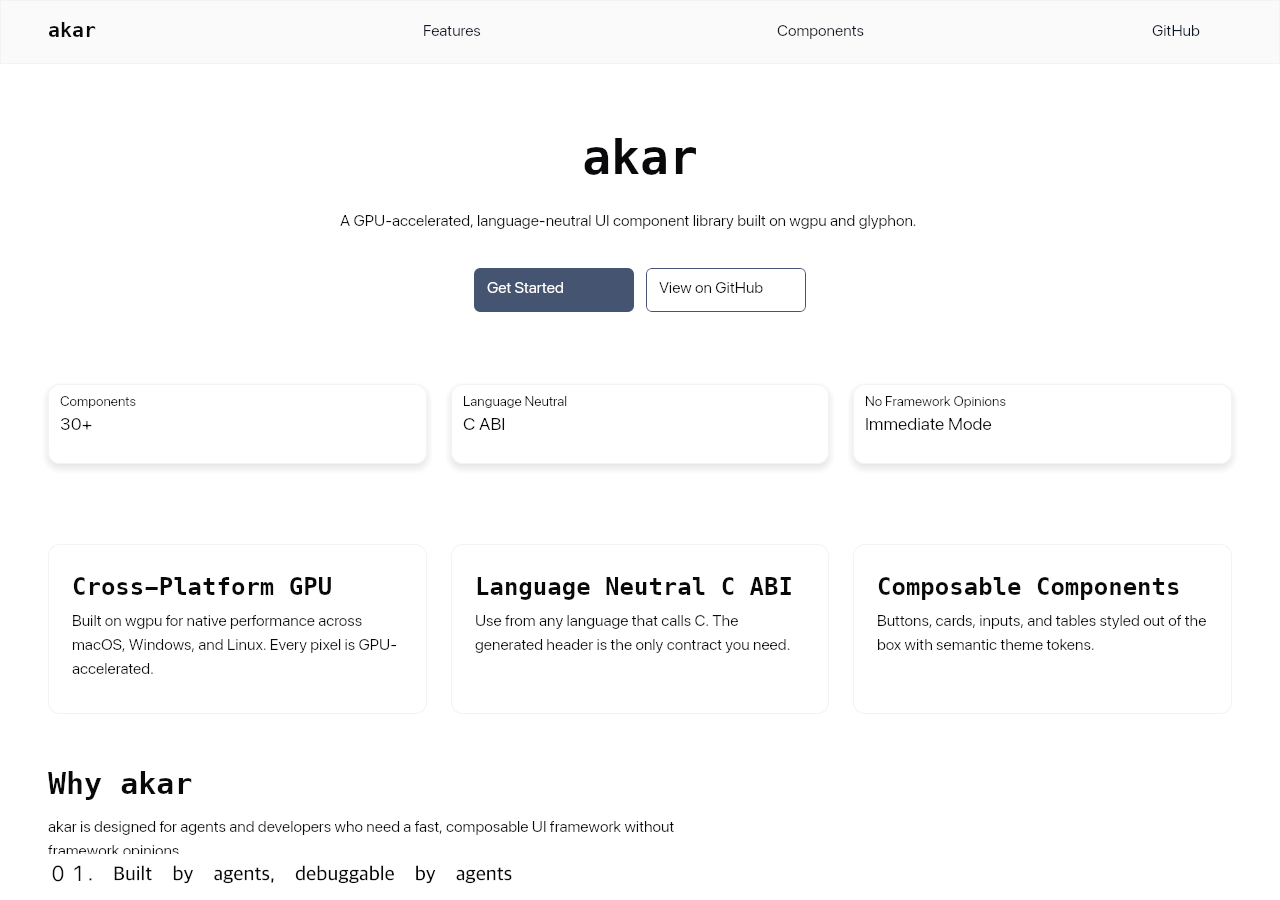
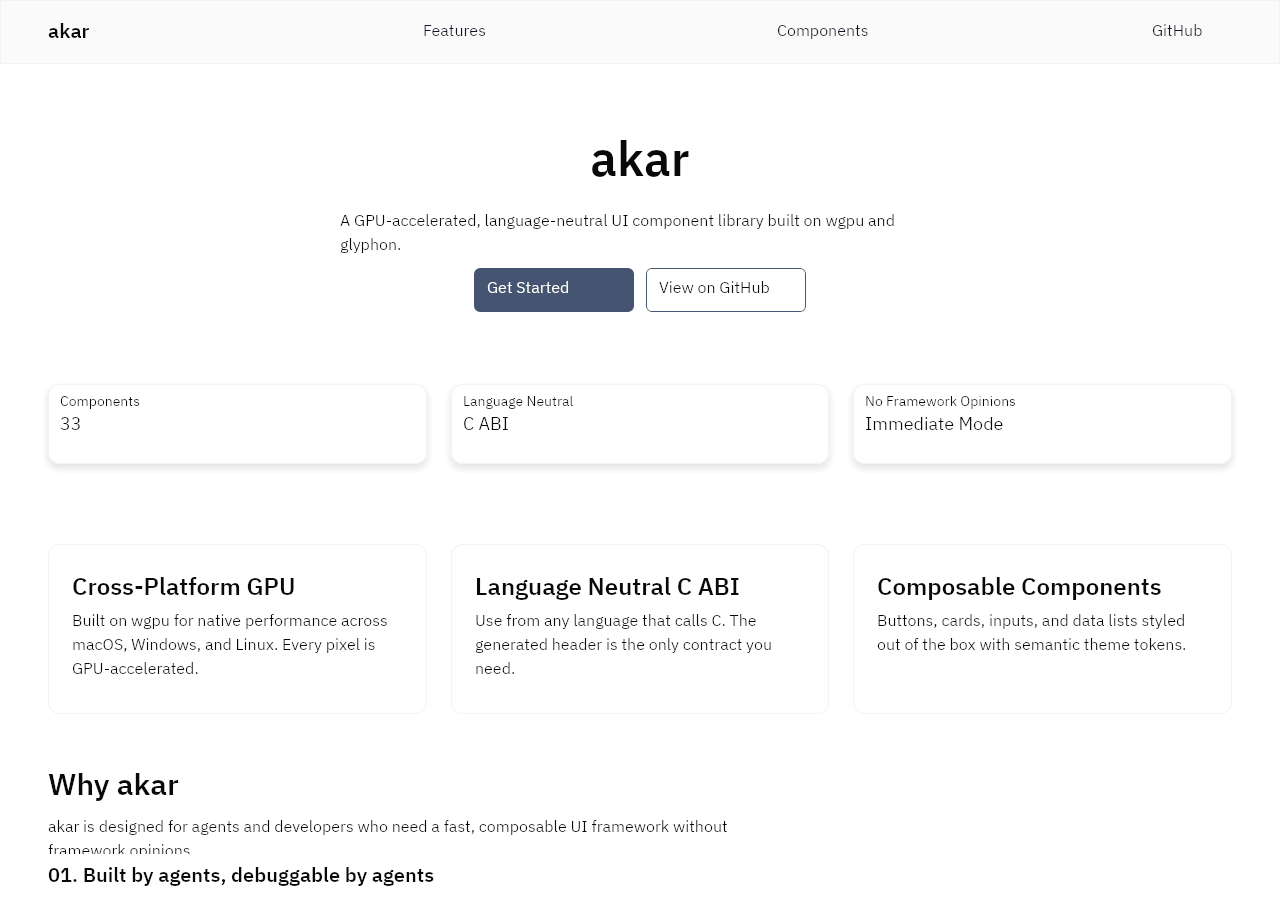
docs: update README component count and swap domain to akar.pixlie.com
Correct the stale "30+ ready-to-use components" / "tables" copy left
over from before epic 026's catalog reconciliation, and point all
domain references at akar.pixlie.com instead of akar.dev. Regenerate
the marketing-page screenshot to match.

diff --git a/website/src/site.config.ts b/website/src/site.config.ts
@@ -80,7 +80,7 @@ const siteConfig: SiteConfig = {
   description:
     "A GPU-accelerated, language-neutral UI component library for agents and developers",
   author: "akar",
-  url: "https://akar.dev",
+  url: "https://akar.pixlie.com",
   ogImage: "/og-image.png",
   twitterHandle: "",
   lang: "en",

diff --git a/examples/webpage-rust/src/sites/akar.rs b/examples/webpage-rust/src/sites/akar.rs
@@ -783,7 +783,7 @@ impl Site for AkarSite {
             layout,
             self.stat_nodes[0],
             "Components",
-            "30+",
+            "33",
             None,
             &THEME,
         );
@@ -823,7 +823,7 @@ impl Site for AkarSite {
         let card_descriptions = [
             "Built on wgpu for native performance across macOS, Windows, and Linux. Every pixel is GPU-accelerated.",
             "Use from any language that calls C. The generated header is the only contract you need.",
-            "Buttons, cards, inputs, and tables styled out of the box with semantic theme tokens.",
+            "Buttons, cards, inputs, and data lists styled out of the box with semantic theme tokens.",
         ];
         for i in 0..3 {
             akar_heading(

diff --git a/README.md b/README.md
@@ -6,7 +6,7 @@ GPU-accelerated UI components for agents and developers.
 
 ## What is akar
 
-akar is an immediate-mode, GPU-rendered UI component library with a C ABI. It ships 30+ ready-to-use components — buttons, cards, inputs, tables, modals, drawers, sliders, toggles, and more — styled out of the box and arranged with a flexbox layout engine. The rendering stack is [wgpu](https://github.com/gfx-rs/wgpu) 29 + [glyphon](https://github.com/grovesNL/glyphon) (cosmic-text backed, GPU atlas), and layout is resolved by [taffy](https://github.com/DioxusLabs/taffy) to pixel coordinates before any draw calls.
+akar is an immediate-mode, GPU-rendered UI component library with a C ABI. It ships 33 ready-to-use components — buttons, cards, inputs, data lists, modals, drawers, sliders, toggles, and more — styled out of the box and arranged with a flexbox layout engine. The rendering stack is [wgpu](https://github.com/gfx-rs/wgpu) 29 + [glyphon](https://github.com/grovesNL/glyphon) (cosmic-text backed, GPU atlas), and layout is resolved by [taffy](https://github.com/DioxusLabs/taffy) to pixel coordinates before any draw calls.
 
 The public API is a C ABI (`libakar` + `akar.h`). Rust is the implementation detail; any language that can call C can use akar. No Rust toolchain is required on the consumer side.
 
@@ -41,7 +41,7 @@ This is a proof of concept that a small team of agents can build a production-qu
 | ![Form controls](images/components/akar-form.png) | ![Drawer](images/components/akar-drawer.png) | ![Stats](images/components/akar-stats.png) |
 | Form | Drawer | Stats |
 
-See the [full component catalog](https://akar.dev/components) for all 33 components, variants, and interactive states.
+See the [full component catalog](https://akar.pixlie.com/components) for all 33 components, variants, and interactive states.
 
 ## The akar marketing page
 
@@ -79,7 +79,7 @@ cargo run --bin demo-rust -- --component drawer --screenshot /tmp/drawer.png --e
 
 ## Documentation
 
-Full documentation and component catalog at [akar.dev](https://akar.dev) (coming soon).
+Full documentation and component catalog at [akar.pixlie.com](https://akar.pixlie.com) (coming soon).
 
 ## License
 
